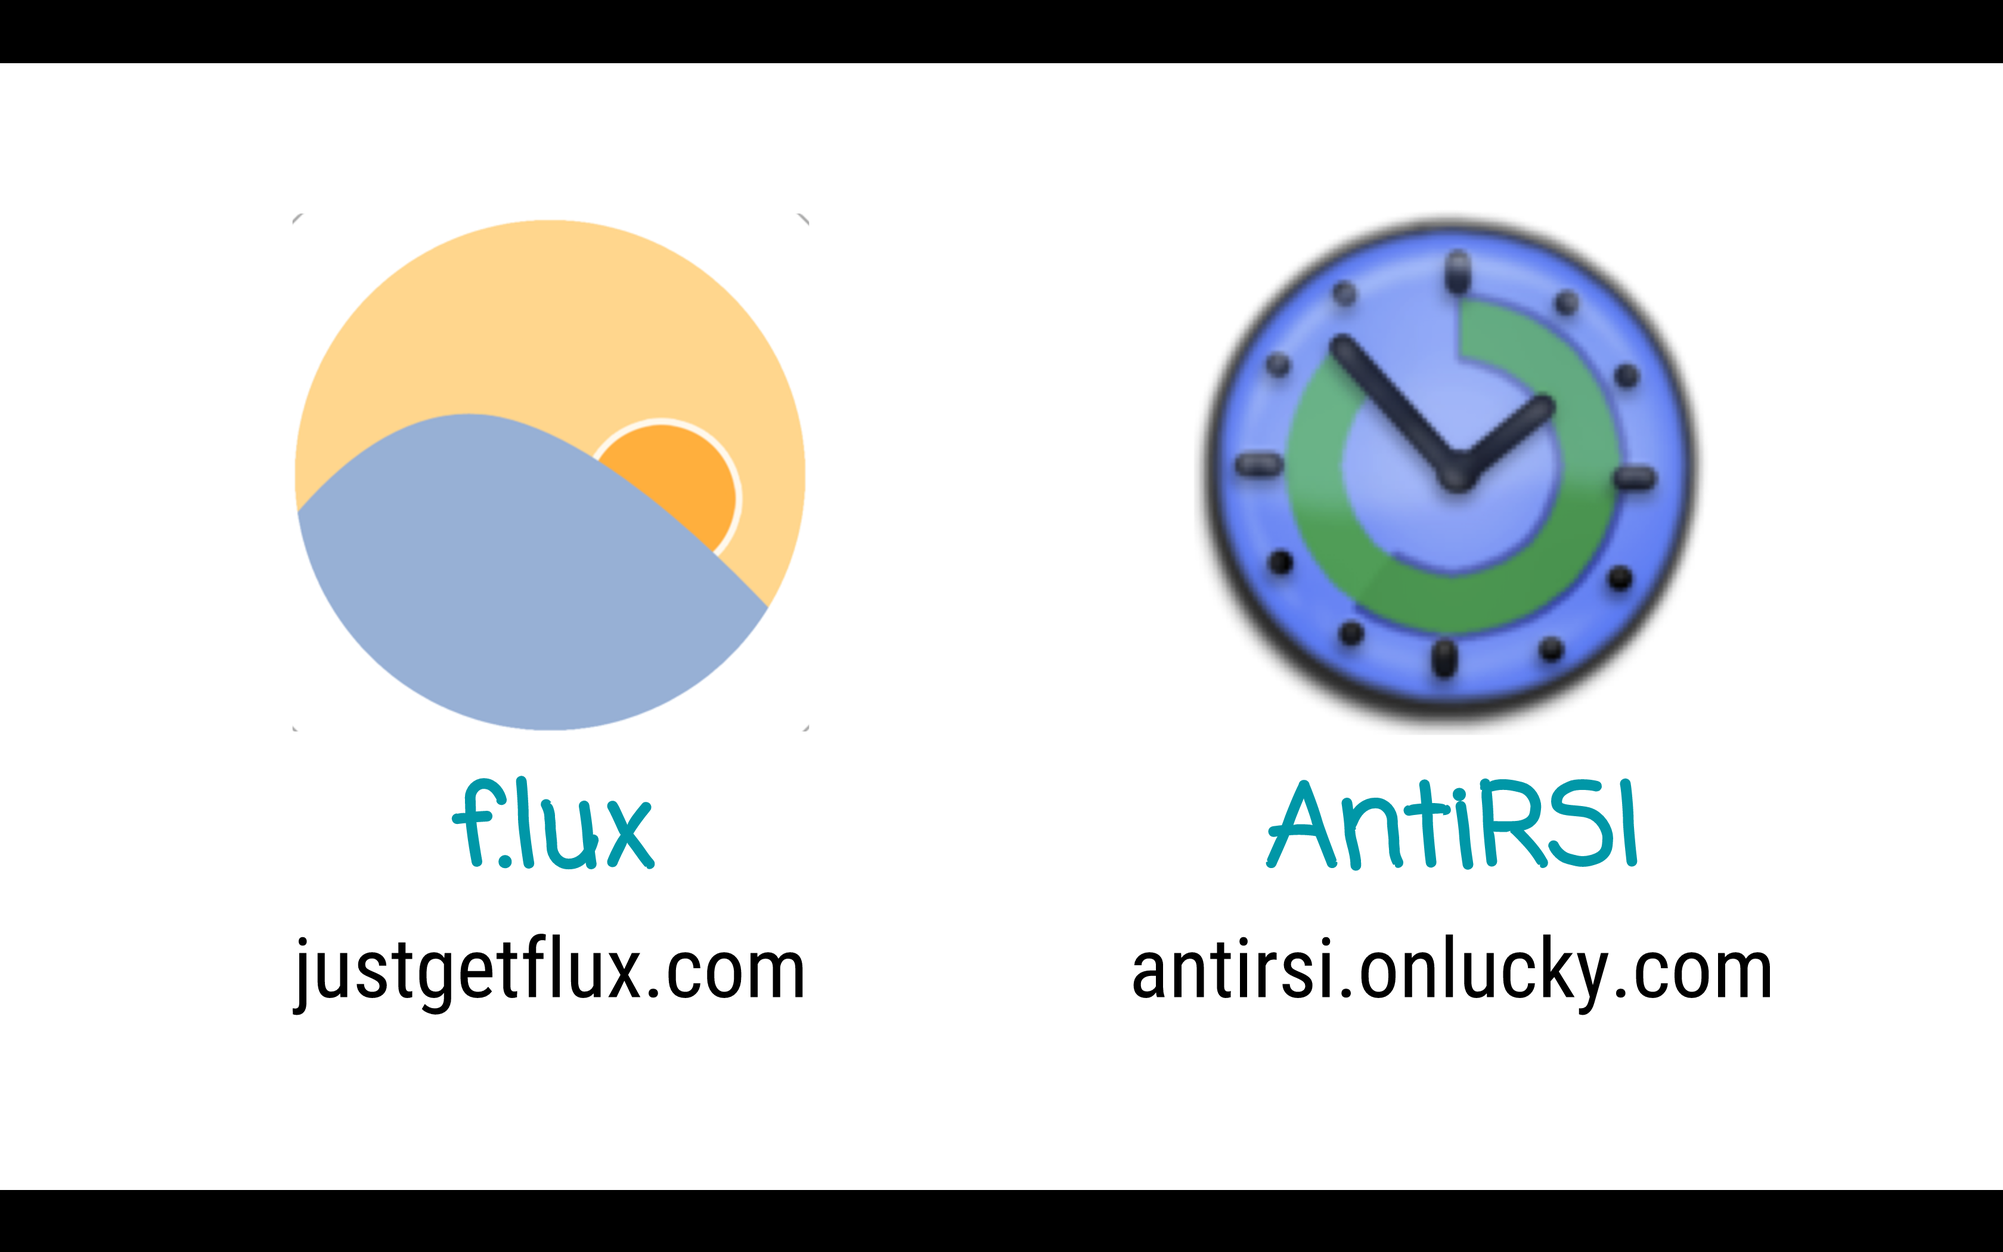
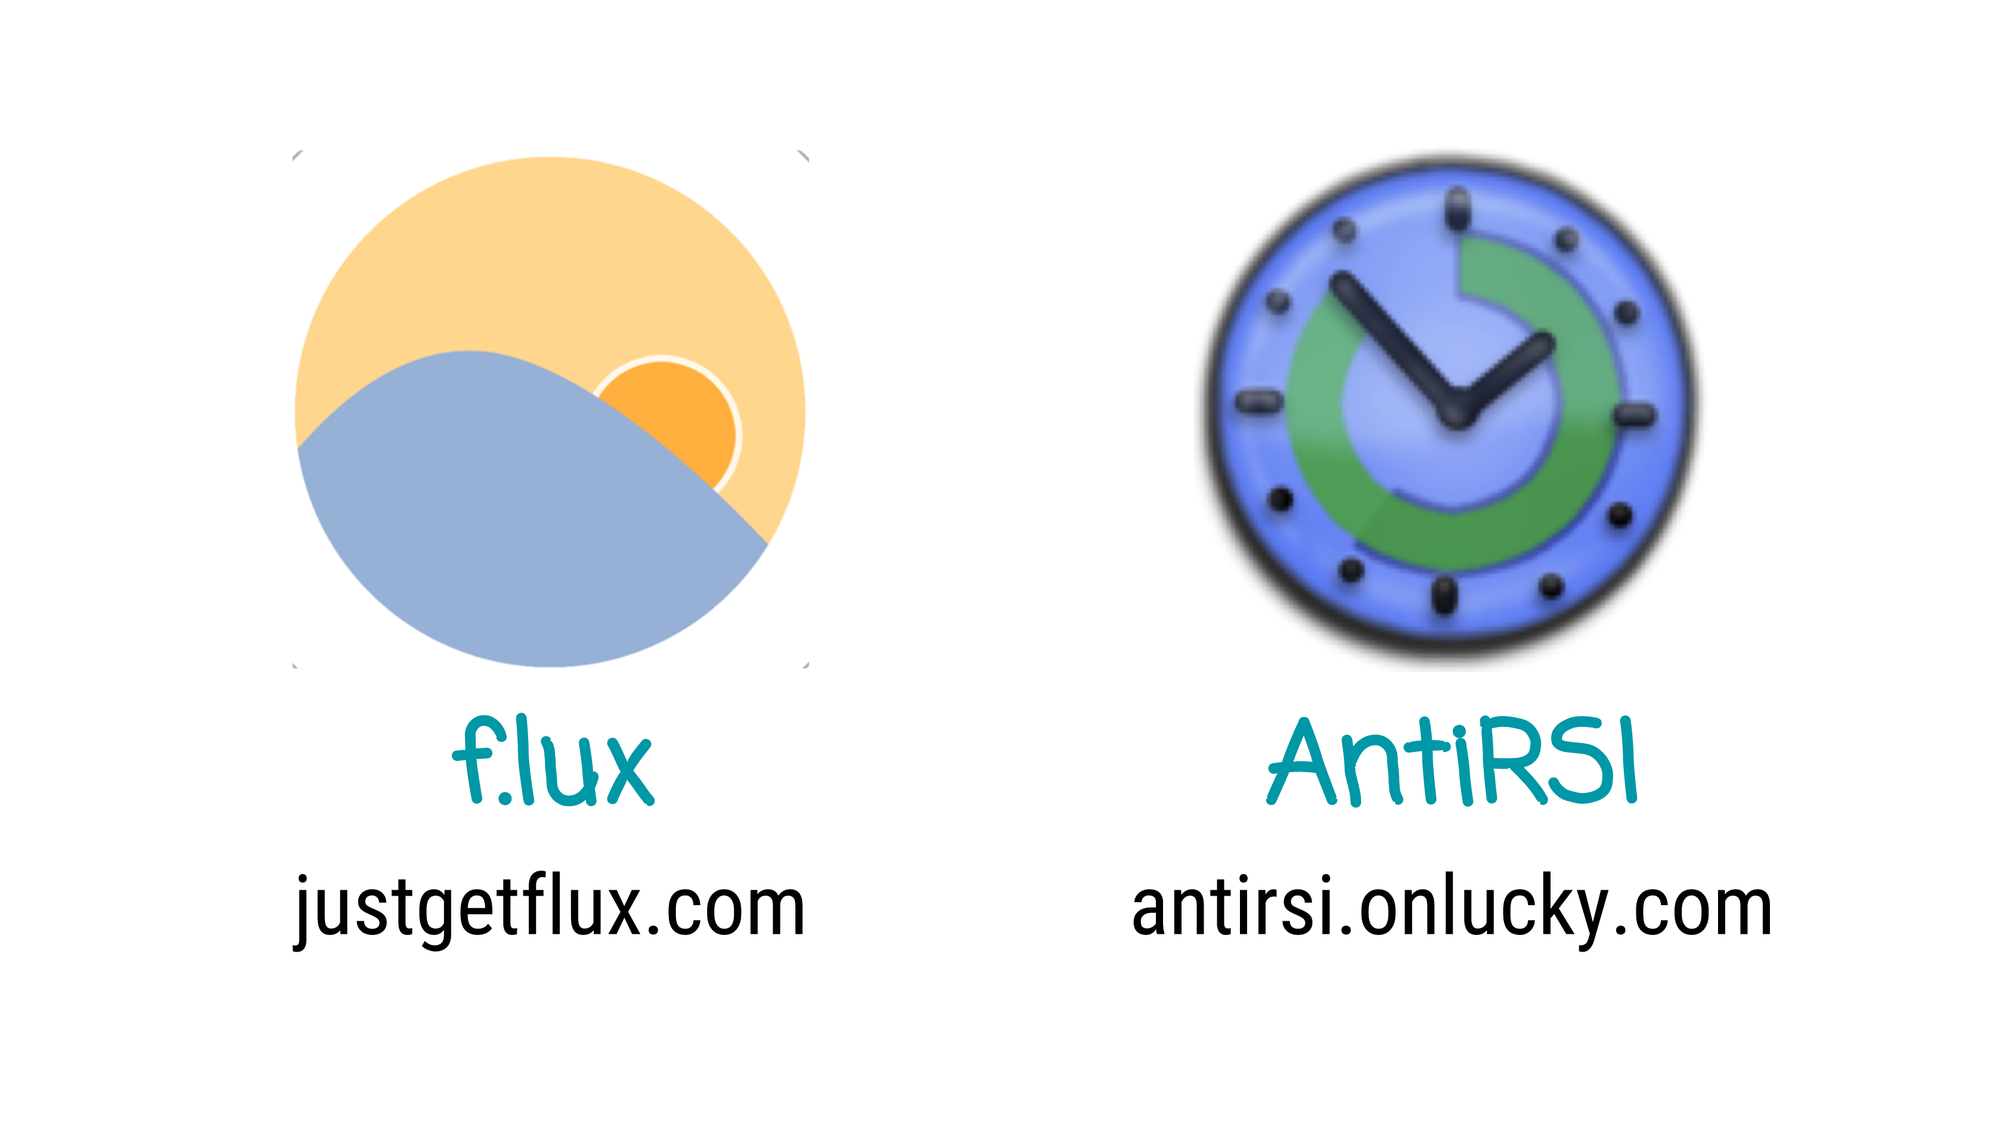
updated CSS and media queries, edited images

diff --git a/index.html b/index.html
@@ -38,105 +38,110 @@
             <div class="row">
                     <h1 class="heading">Self-care for Nerds</h1>
                     <div class="col-lg-6 col-lg-offset-3 col-md-8 col-md-offset-2 col-sm-8 col-sm-offset-2">
-                        <p class="intro-text">I pitched and gave a lightning talk at <a class="intro-text-link" href="https://twitter.com/search?q=aditihbhandari%20%23NICAR17&src=typd" target="_blank">#NICAR17</a> about physical self-care as a developer, journalist, or just someone who sits at a computer all day. Here are my slides and speaker notes!</p>
-                        <p class="intro-text">P.S. if you decided to do any of these, <a class="intro-text-link" href="https://twitter.com/AditiHBhandari" target="_blank">let me know</a>. I'm not a doctor, but I AM invested in your well-being&nbsp 💖</p>
-
-                    <div class="slide">
-                        <img class="screenshot" src="img/1.png" alt="Slide 1. Self-care for Nerds by Aditi Bhandari">
-                        <div class="description">
-                            <p class="description-text">Hi! I’m Aditi Bhandari, and I’m a student at Northwestern University and an intern at The Texas Tribune. Between these two jobs, I spend at least 8-12 hours on my computer every day.</p>
-                            <p class="description-text">My parents are both doctors; my mom’s an eye doctor and my dad’s a bone doctor, so between the two of them I’ve had great healthcare. But I’ve also received a lot of free advice about how to stay healthy despite my sedentary lifestyle, so I’m here to share that with you. Keep in mind that despite my parents efforts, I am not a doctor, so if you’re experiencing pain you should go see a real one.</p>
-                        </div>
+                        <p class="intro-text">I pitched and gave a lightning talk at <a class="intro-text-link" href="https://twitter.com/search?q=aditihbhandari%20%23NICAR17&src=typd" target="_blank">#NICAR17</a> about physical self-care as a developer, journalist, or just someone who sits at a computer all day. Here are my slides and speaker notes.</p>
+                        <p class="intro-text">P.S. if you decided to do any of these, <a class="intro-text-link" href="https://twitter.com/AditiHBhandari" target="_blank">let me know</a>! I'm not a doctor, but I AM invested in your well-being&nbsp;&nbsp;💖</p>
                     </div>
 
-                    <div class="slide">
-                        <img class="screenshot" src="img/2.png" alt="Slide 2. Flux and Anti RSI">
-                        <div class="description">
-                            <p class="description-text">I mainly use two free apps available on Macs and PCs to reduce the strain on my eyes.</p>
-                            <p class="description-text">If you’re used to working through the night you should definitely download <a class="description-text-link" href="https://justgetflux.com/" target="_blank">f.lux</a>. Blue light has an awakening effect on the brain which makes it harder for you to fall asleep, so reducing it with an app like flux or the night mode on an iPhone is better for your sleep cycle.</p>
-                            <p>I also use <a class="description-text-link" href="antirsi.onlucky.com" target="_blank">AntiRSI</a>, aka "anti repetitive strain injury". This app reduces the strain on your eyes by forcing you to take frequent breaks, and it freezes your computer while you’re on your break. It analyzes your work pattern and schedules "micropauses", which are a few seconds long and "work breaks", which are a few minutes long. Of course, if you’re on deadline you can always postpone or quit the app.</p>
-                        </div>
-                    </div>
+                    <div class="col-lg-8 col-lg-offset-2 col-md-8 col-md-offset-2 col-sm-8 col-sm-offset-2 col-xs-12">
 
-                    <div class="slide">
-                        <img class="screenshot" src="img/3.png" alt="Slide 3. Blink, or stare into the void">
-                        <div class="description">
-                            <p class="description-text">But it isn’t enough to take breaks, it’s what you do with those breaks that counts.</p>
-                            <p class="description-text">To give them a break during my micropauses, I do either of the following:
-                            <ul class="description-list">
-                                <li>I blink or I keep my eyes closed to rest and rehydrate them. You’d be surprised how much we forget to do that when we're working at our computers.</li>
-                                <li>I look out of a window to the farthest point I can see. When you’re working at a screen that’s so close to your face, your eye muscles are in spasm trying to focus on it. You may look weird staring into the void, but it lets you give those eye muscles a break.</li>
-                            </ul>
-                            </p>
+                        <div class="slide">
+                            <img class="screenshot" src="img/1.png" alt="Slide 1. Self-care for Nerds by Aditi Bhandari">
+                            <div class="description">
+                                <p class="description-text">Hi! I’m Aditi Bhandari, and I’m a student at Northwestern University and an intern at The Texas Tribune. Between these two jobs, I spend at least 8-12 hours on my computer every day.</p>
+                                <p class="description-text">My parents are both doctors so between the two of them I’ve had great healthcare. But I’ve also received a lot of free advice about how to stay healthy despite my sedentary lifestyle, so I’m here to share that with you. Keep in mind that I am not a doctor, so if you’re experiencing pain you should go see a real one.</p>
+                            </div>
                         </div>
-                    </div>
 
-                    <div class="slide">
-                        <img class="screenshot" src="img/4.png" alt="Slide 4. Get up, drink water and check yo'self">
-                        <div class="description">
-                            <p class="description-text">During my longer breaks, I have a three-step routine that I’m trying really hard to follow. I hope that by sharing it with you all, I’ll keep myself accountable too:
-                            <ol class="description-list">
-                                <li>First, stand up and walk around, because I know I don't do that enough sitting at my desk all day. Take this opportunity to say hi to an intern or a coworker. Ask what they're working on. And if you need to, go to the bathroom!!</li>
-                                <li>Drink some water (or a beverage of your choice) to stay hydrated. Eat a snack if you need one.</li>
-                                <li>Check your posture. This is an important one with several factors, but if you focus on them one-by-one, you'll get the hang of it pretty quickly. Let's go from the feet-up:
+                        <div class="slide">
+                            <img class="screenshot" src="img/2.png" alt="Slide 2. Flux and Anti RSI">
+                            <div class="description">
+                                <p class="description-text">I use two free apps available on Macs and PCs to reduce the strain on my eyes.</p>
+                                <p class="description-text">If you’re used to working through the night you should definitely download <a class="description-text-link" href="https://justgetflux.com/" target="_blank">f.lux</a>. Blue light has an awakening effect on the brain which makes it harder for you to fall asleep, so reducing it with an app like flux or the night mode on an iPhone is better for your sleep cycle.</p>
+                                <p>I also use <a class="description-text-link" href="antirsi.onlucky.com" target="_blank">AntiRSI</a>, aka "anti repetitive strain injury". This app reduces the strain on your eyes by forcing you to take frequent breaks, and it freezes your computer while you’re on your break. It analyzes your work pattern and schedules "micropauses", which are a few seconds long and "work breaks", which are a few minutes long. Of course, if you’re on deadline you can always postpone or quit the app.</p>
+                            </div>
+                        </div>
+
+                        <div class="slide">
+                            <img class="screenshot" src="img/3.png" alt="Slide 3. Blink, or stare into the void">
+                            <div class="description">
+                                <p class="description-text">But it isn’t enough to take breaks, it’s what you do with those breaks that counts.</p>
+                                <p class="description-text">To give them a break during my micropauses, I do either of the following:
                                 <ul class="description-list">
-                                    <li>Plant your feet firmly on the ground, legs bent at 90&deg;.</li>
-                                    <li>If your chair doesn't already have a support for your lower back, get a cushion to prop it up (this is called a lumbar support.)</li>
-                                    <li>Keep your arms at ~90&deg; while typing, and rest your elbows and wrists on your arm rests or desk.</li>
-                                    <li>Relax your shoulders and hold your neck straight.</li>
-                                    <li>Your screen should be at eye level and at least a foot away from your face.</li>
+                                    <li>I blink or I keep my eyes closed to rest and rehydrate them. You’d be surprised how much we forget to do that when we're working at our computers.</li>
+                                    <li>I look out of a window to the farthest point I can see. When you’re working at a screen that’s so close to your face, your eye muscles are in spasm trying to focus on it. You may look weird staring into the void, but it lets you give those eye muscles a break.</li>
                                 </ul>
-                                </li>
-                            </ol>
-                            </p>
+                                </p>
+                            </div>
                         </div>
+
+                        <div class="slide">
+                            <img class="screenshot" src="img/4.png" alt="Slide 4. Get up, drink water and check yo'self">
+                            <div class="description">
+                                <p class="description-text">During my longer breaks, I have a three-step routine that I’m trying really hard to follow. I hope that by sharing it with you all, I’ll keep myself accountable too:
+                                <ol class="description-list">
+                                    <li>First, stand up and walk around, because I know I don't do that enough sitting at my desk all day. Take this opportunity to say hi to an intern or a coworker. Ask what they're working on. And if you need to, go to the bathroom!!</li>
+                                    <li>Drink some water (or a beverage of your choice) to stay hydrated. Eat a snack if you need one.</li>
+                                    <li>Check your posture. This is an important one with several factors, but if you focus on them one-by-one, you'll get the hang of it pretty quickly. Let's go from the feet-up:
+                                    <ul class="description-list">
+                                        <li>Plant your feet firmly on the ground, legs bent at 90&deg;.</li>
+                                        <li>If your chair doesn't already have a support for your lower back, get a cushion to prop it up (this is called a lumbar support.)</li>
+                                        <li>Keep your arms at ~90&deg; while typing, and rest your elbows and wrists on your arm rests or desk.</li>
+                                        <li>Relax your shoulders and hold your neck straight.</li>
+                                        <li>Your screen should be at eye level and at least a foot away from your face.</li>
+                                    </ul>
+                                    </li>
+                                </ol>
+                                </p>
+                            </div>
+                        </div>
+
+                        <div class="slide">
+                            <img class="screenshot" src="img/5-1.gif" alt="Slide 5-1. Wrist rotation">
+                            <div class="description">
+                                <p class="description-text">You could also take this time to do some simple exercises to strengthen your arms and wrists. Remember to do these gently; if you force your arm to stretch too far you might hurt yourself!.</p>
+                                <p class="description-text">Here's a simple one to get you started:
+                                <ul class="description-list">
+                                    <li>Rest your forearm and elbow on your desk with your palm facing down.</li>
+                                    <li>Slowly and gently, rotate your forearm so that your palm faces upwards.</li>
+                                </ul>
+                                </p>
+                            </div>
+                        </div>
+
+                        <div class="slide">
+                            <img class="screenshot" src="img/5-2.gif" alt="Slide 5-2. Wrist waving">
+                            <div class="description">
+                                <p class="description-text">Now it's time to caress your desk. Again, it may look weird at first, but it's definitely not worse than aching joints!
+                                <ul class="description-list">
+                                    <li>Like in the previous exercise, rest your forearm and elbow on your desk with your palm facing down.</li>
+                                    <li>Slowly and gently, bend your wrist from side to side as far as it can easily go.</li>
+                                </ul>
+                                </p>
+                            </div>
+                        </div>
+
+                        <div class="slide">
+                            <img class="screenshot" src="img/5-3.gif" alt="Slide 5-3. Wrist flexion">
+                            <div class="description">
+                                <p class="description-text">Here's one more simple exercise.
+                                <ul class="description-list">
+                                    <li>Rest your forearm and elbow on your desk with your hand hanging off of the side.</li>
+                                    <li>Slowly and gently, flex your wrist from up to down as far as it can easily go.</li>
+                                </ul>
+                                </p>
+                                <p class="description-text">Last but not least, stress balls work! I wish I knew that before I threw out all the free ones I got in college but they help exercise your fingers after a long day of tapping away at a keyboard.</p>
+                            </div>
+                        </div>
+
+                        <div class="slide">
+                            <img class="screenshot" src="img/6.png" alt="Slide 6. That's all, folks">
+                            <div class="description">
+                                <p class="description-text">A major caveat to all of this information is that these exercises alone won't help prevent carpal tunnel syndrome or computer vision syndrome (yep, it's a real thing). The only way to do that is to exercise, follow a healthy diet and get your vitamins. But doing these will help ease the effects of working on your computer the whole day, so find a work buddy and keep each other accountable. Take care of yourselves, and each other!</p>
+                            </div>
+                        </div>
+
                     </div>
 
-                    <div class="slide">
-                        <img class="screenshot" src="img/5-1.gif" alt="Slide 5-1. Wrist rotation">
-                        <div class="description">
-                            <p class="description-text">You could also take this time to do some simple exercises to strengthen your arms and wrists. Remember to do these gently; if you force your arm to stretch too far you might hurt yourself!.</p>
-                            <p class="description-text">Here's a simple one to get you started:
-                            <ul class="description-list">
-                                <li>Rest your forearm and elbow on your desk with your palm facing down.</li>
-                                <li>Slowly and gently, rotate your forearm so that your palm faces upwards.</li>
-                            </ul>
-                            </p>
-                        </div>
-                    </div>
-
-                    <div class="slide">
-                        <img class="screenshot" src="img/5-2.gif" alt="Slide 5-2. Wrist waving">
-                        <div class="description">
-                            <p class="description-text">Now it's time to caress your desk. Again, it may look weird at first, but it's definitely not worse than aching joints!
-                            <ul class="description-list">
-                                <li>Like in the previous exercise, rest your forearm and elbow on your desk with your palm facing down.</li>
-                                <li>Slowly and gently, bend your wrist from side to side as far as it can easily go.</li>
-                            </ul>
-                            </p>
-                        </div>
-                    </div>
-
-                    <div class="slide">
-                        <img class="screenshot" src="img/5-3.gif" alt="Slide 5-3. Wrist flexion">
-                        <div class="description">
-                            <p class="description-text">Last but not least, here's one more exercise.
-                            <ul class="description-list">
-                                <li>Rest your forearm and elbow on your desk with your hand hanging off of the side.</li>
-                                <li>Slowly and gently, flex your wrist from up to down as far as it can easily go.</li>
-                            </ul>
-                            </p>
-                        </div>
-                    </div>
-
-                    <div class="slide">
-                        <img class="screenshot" src="img/6.png" alt="Slide 6. That's all, folks">
-                        <div class="description">
-                            <p class="description-text">A major caveat to all of this information is that these exercises alone won't help prevent carpal tunnel syndrome or computer vision syndrome (yep, it's a real thing). The only way to do that is to exercise, follow a healthy diet and get your vitamins. But doing these will help ease the effects of working on your computer the whole day, so find a work buddy and keep each other accountable. Take care of yourselves, and each other!</p>
-
-                        </div>
-                    </div>
-                </div>
             </div>
         </div>
     </section>

diff --git a/css/style.css b/css/style.css
@@ -46,7 +46,7 @@ body {
 .screenshot {
     width: 50%;
     max-height: 275px;
-    box-shadow: 2px 2px 5px #b0b0b0;
+    box-shadow: 0px 2px 5px #b0b0b0;
 }
 
 .description {
@@ -61,6 +61,19 @@ body {
 .description-list {
     padding-left: 20px;
     font-size: 1.1em;
+}
+
+@media (max-width: 500px) {
+    .screenshot {
+        width: 100%;
+        height: auto;
+    }
+
+    .description {
+        float: none;
+        width: 100%;
+        margin-top: 10px;
+    }
 }
 
 .footer {
